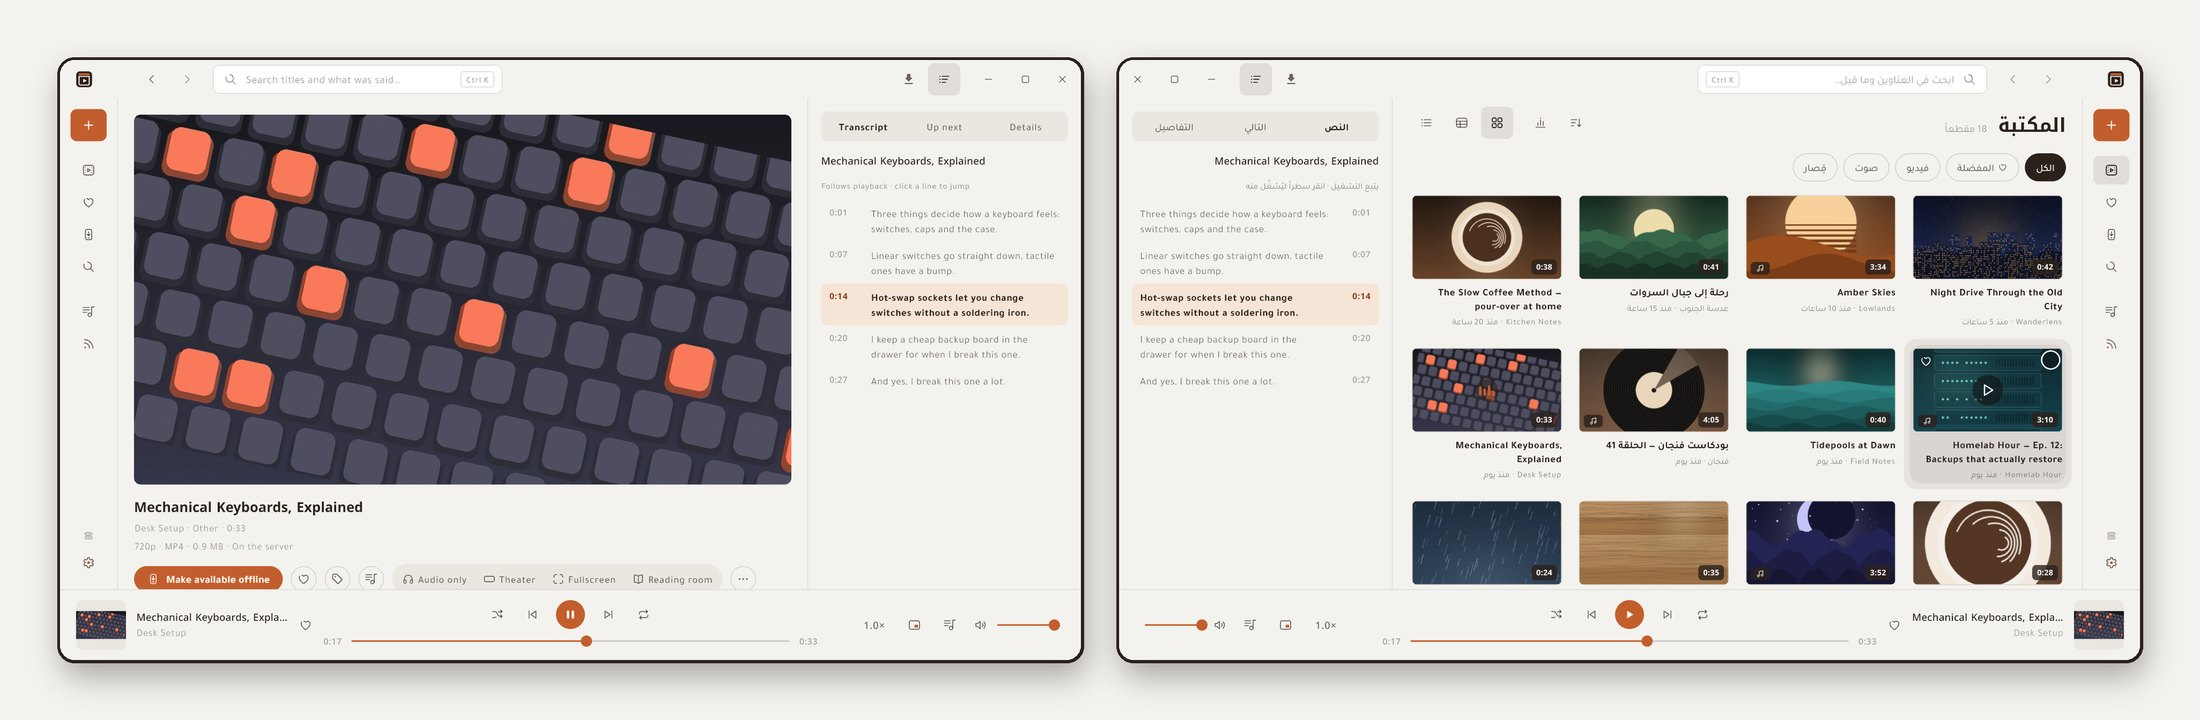
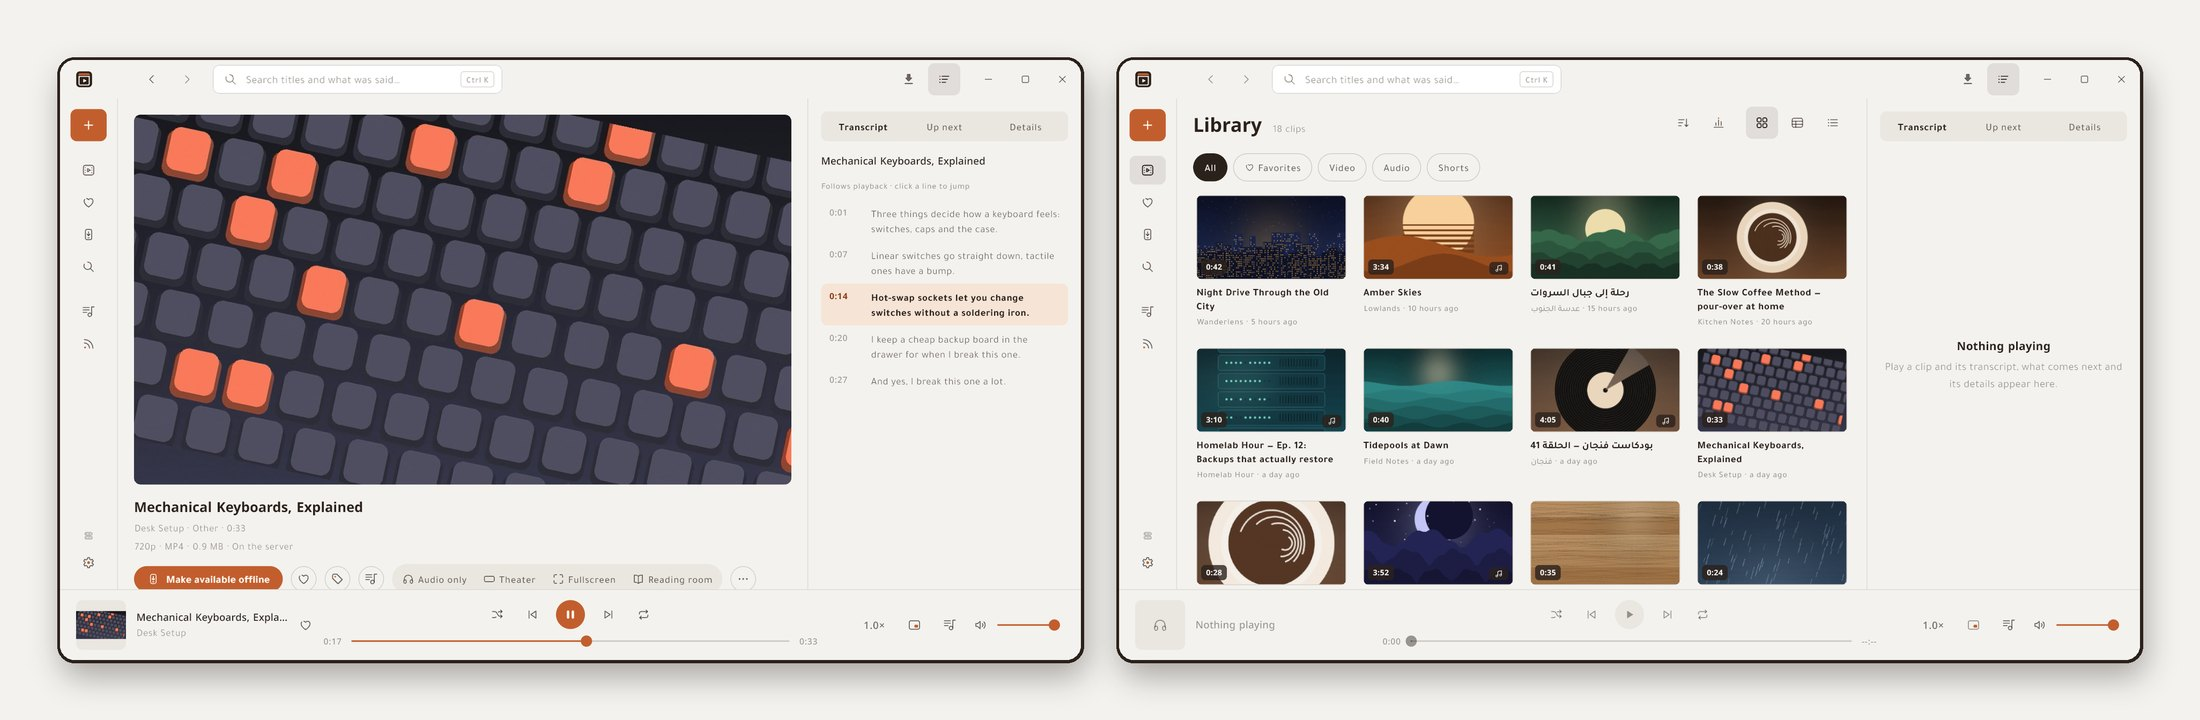
docs: the Ember screenshot in English on both sides

diff --git a/README.ar.md b/README.ar.md
@@ -23,9 +23,9 @@
 <p align="center"><sub>MeTube Super — المكتبة الموحَّدة، وبثّ فيديو مع ترجمته وقائمة «التالي»، ومشغل الصوت ليلاً، وقوائم التشغيل. كل عنوان وغلاف هنا مخترَع.</sub></p>
 
 <p align="center">
-  <img src="docs/screenshots/desktop.jpg" alt="MeTube Ember على ويندوز: فيديو يُعرض والنص يتبعه بجانبه، والمكتبة بالعربية">
+  <img src="docs/screenshots/desktop.jpg" alt="MeTube Ember على ويندوز: فيديو يُعرض والنص يتبعه بجانبه، والمكتبة شبكةً من الأغلفة">
 </p>
-<p align="center"><sub>MeTube Ember، الجديد في 2.7.0 — المكتبة نفسها على ويندوز: النص يتبع الفيديو ونقرة تنقلك إلى أي سطر، وعلى اليمين المكتبة بالعربية.</sub></p>
+<p align="center"><sub>MeTube Ember، الجديد في 2.7.0 — المكتبة نفسها على ويندوز: النص يتبع الفيديو ونقرة تنقلك إلى أي سطر، وعلى اليمين المكتبة شبكةً من الأغلفة.</sub></p>
 
 <p align="center">
   <img src="docs/screenshots/lite-share.gif" width="300" alt="MeTube Lite: رابط يُشارَك إلى التطبيق، فينزّله السيرفر، ويسحبه الهاتف، ثم يُحذف من السيرفر">

diff --git a/README.md b/README.md
@@ -25,9 +25,9 @@ English, for phones, tablets and Windows, and free software under the GPL.
 <p align="center"><sub>MeTube Super — the merged library, a video streaming with its subtitles and up-next queue, the audio player at night, and playlists. Every title and cover here is invented.</sub></p>
 
 <p align="center">
-  <img src="docs/screenshots/desktop.jpg" alt="MeTube Ember on Windows: a video playing with its transcript following beside it, and the library in Arabic">
+  <img src="docs/screenshots/desktop.jpg" alt="MeTube Ember on Windows: a video playing with its transcript following beside it, and the library as a grid of covers">
 </p>
-<p align="center"><sub>MeTube Ember, new in 2.7.0 — the same library on Windows: the transcript follows the video and a click jumps to any line; on the right, the library in Arabic.</sub></p>
+<p align="center"><sub>MeTube Ember, new in 2.7.0 — the same library on Windows: the transcript follows the video and a click jumps to any line; on the right, the library as a grid.</sub></p>
 
 <p align="center">
   <img src="docs/screenshots/lite-share.gif" width="300" alt="MeTube Lite: a link is shared to the app, the server downloads it, the phone pulls the file and the server is cleaned up">
